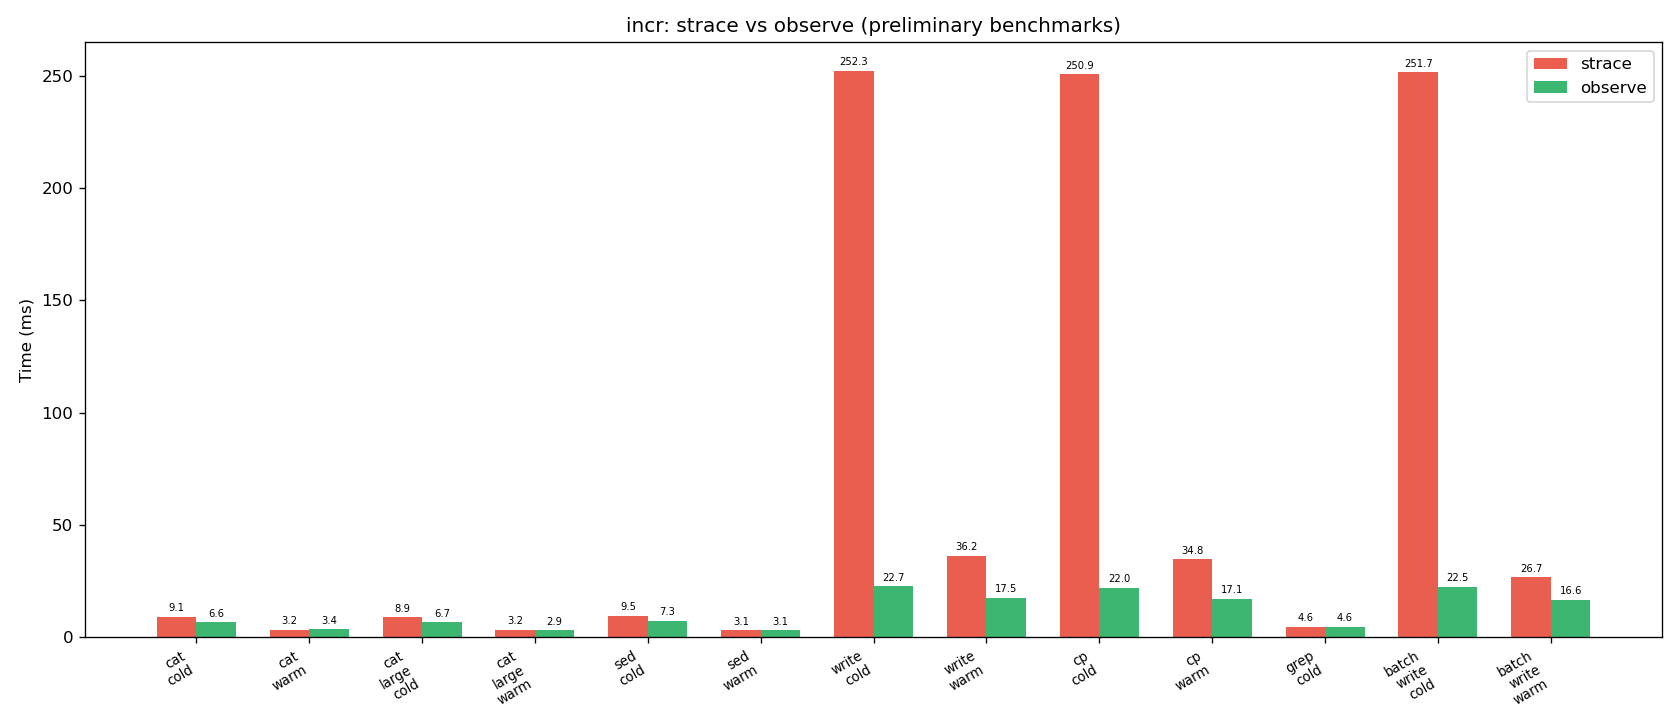
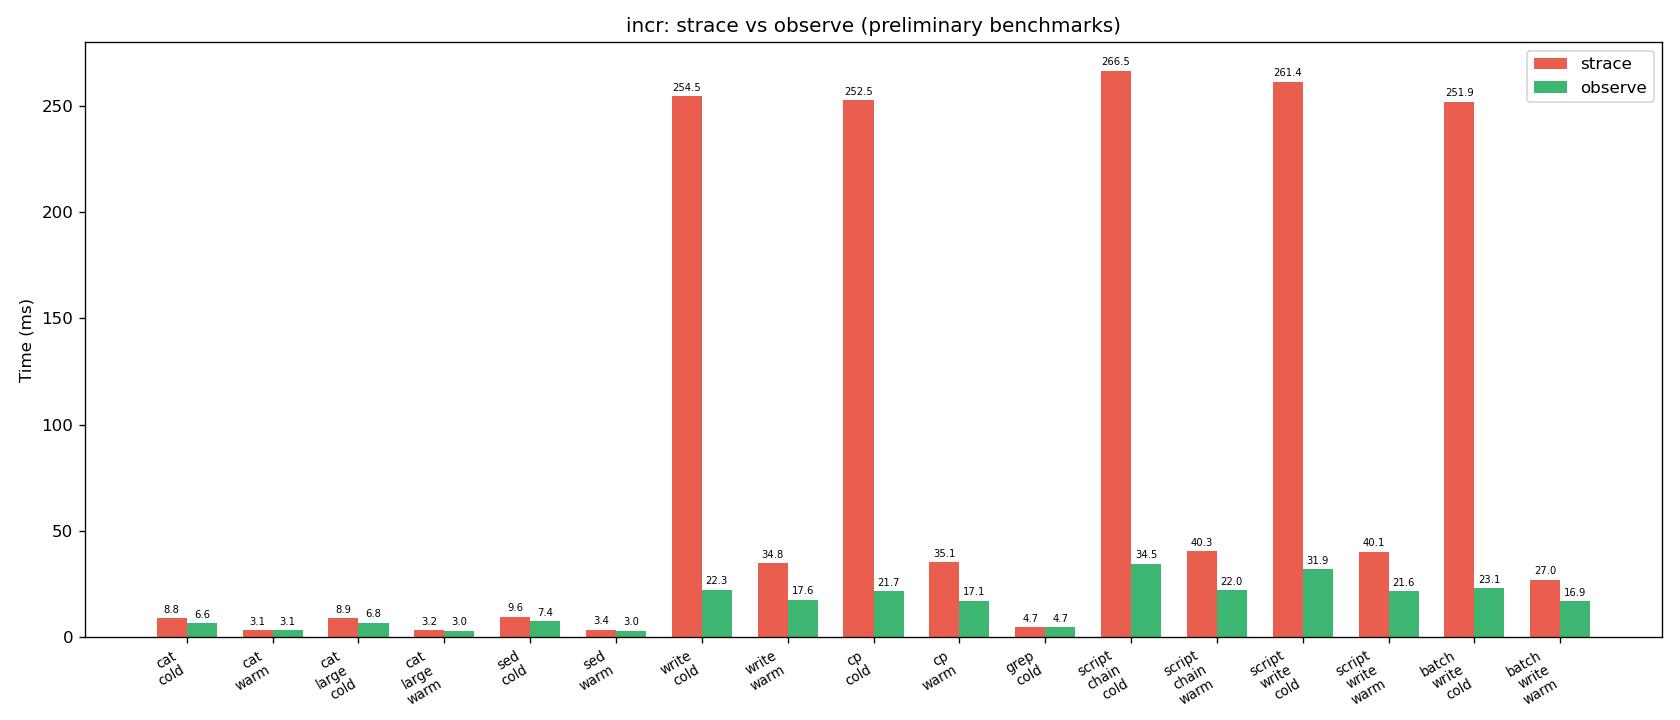
more benchmarks

diff --git a/agent/benchmarks/plot.py b/agent/benchmarks/plot.py
@@ -42,6 +42,8 @@ def plot_results(data: dict, output_path: Path) -> None:
         "cat_cold", "cat_warm", "cat_large_cold", "cat_large_warm",
         "sed_cold", "sed_warm", "write_cold", "write_warm",
         "cp_cold", "cp_warm", "grep_cold",
+        "script_chain_cold", "script_chain_warm",
+        "script_write_cold", "script_write_warm",
         "batch_write_cold", "batch_write_warm",
     ]
     names = [n for n in order if n in data]

diff --git a/agent/docs/FINDINGS.md b/agent/docs/FINDINGS.md
@@ -43,10 +43,13 @@ Preliminary benchmarks (5 iterations each) show:
 | **write** | **~250 ms** | **~23 ms** | ~36 ms | ~18 ms |
 | **cp** | **~250 ms** | **~22 ms** | ~35 ms | ~17 ms |
 | grep | ~5 ms | ~5 ms | — | — |
+| **script: cp\|sed\|cat** | **~265 ms** | **~34 ms** | ~40 ms | ~22 ms |
+| **script: echo\|cp\|grep** | **~265 ms** | **~32 ms** | ~40 ms | ~22 ms |
 | **batch write** | **~250 ms** | **~23 ms** | ~27 ms | ~17 ms |
 
 **Takeaways**:
 - **Write workloads**: ~11x speedup (cold), ~2–4x (warm). Observe avoids Sandbox/try overlayfs.
+- **Multi-command scripts** (3 commands): ~8x cold speedup; similar to single-write workloads.
 - **TraceFile (read-only)**: ~1.2–1.4x speedup from lighter tracing.
 - **Pure (grep)**: Similar overhead; both use TraceFile then Nothing.
 
